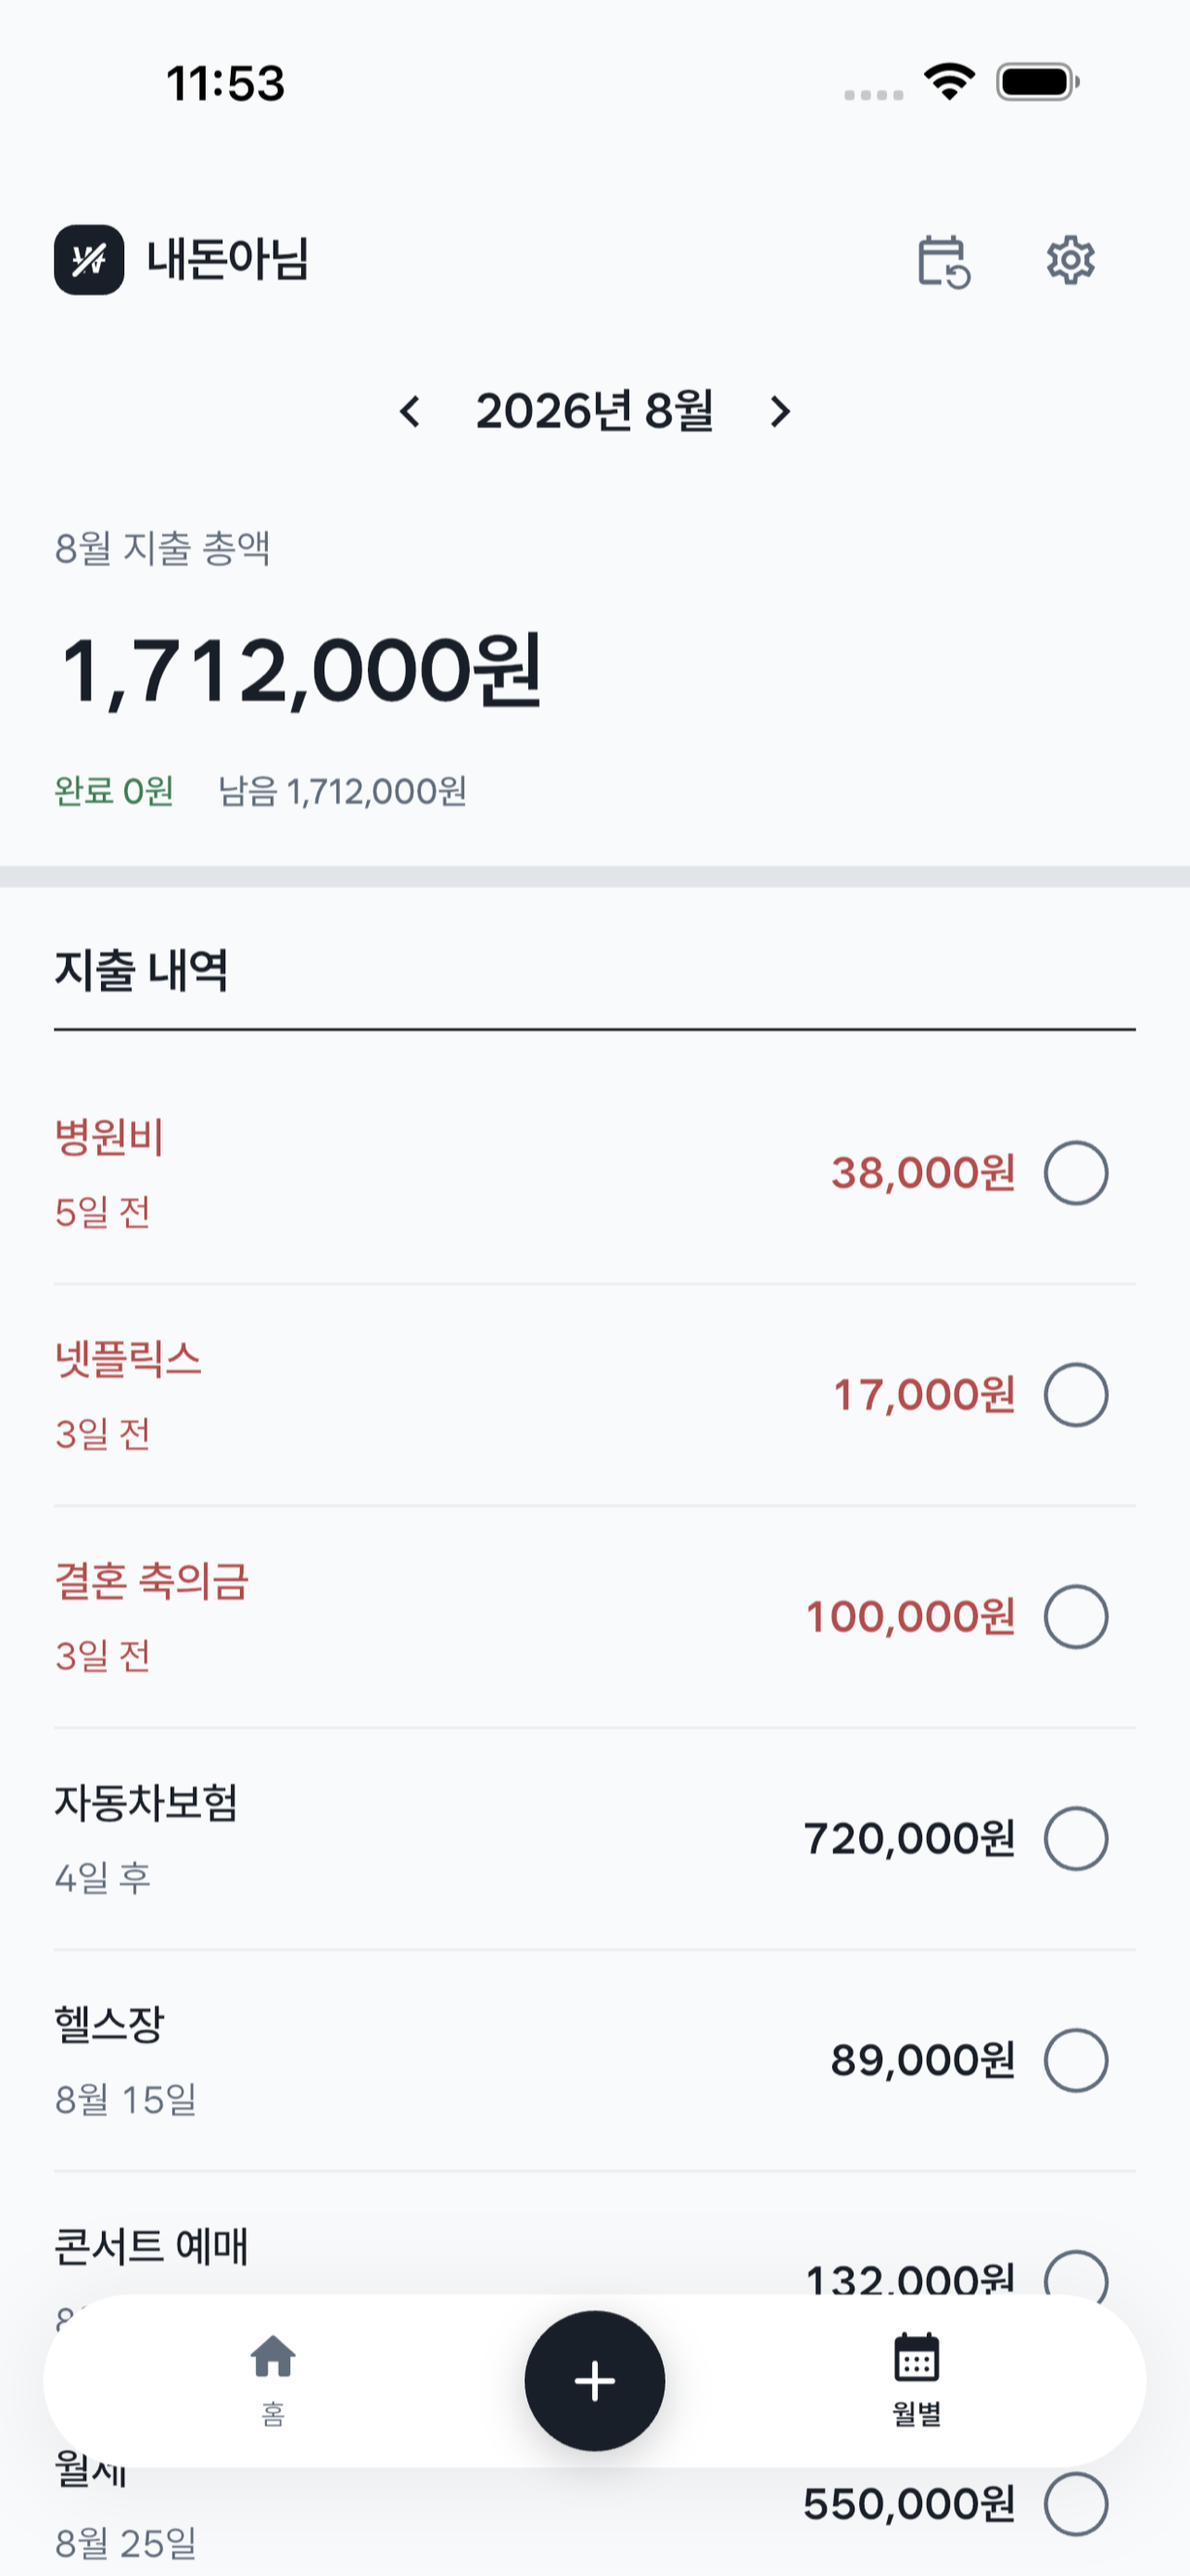
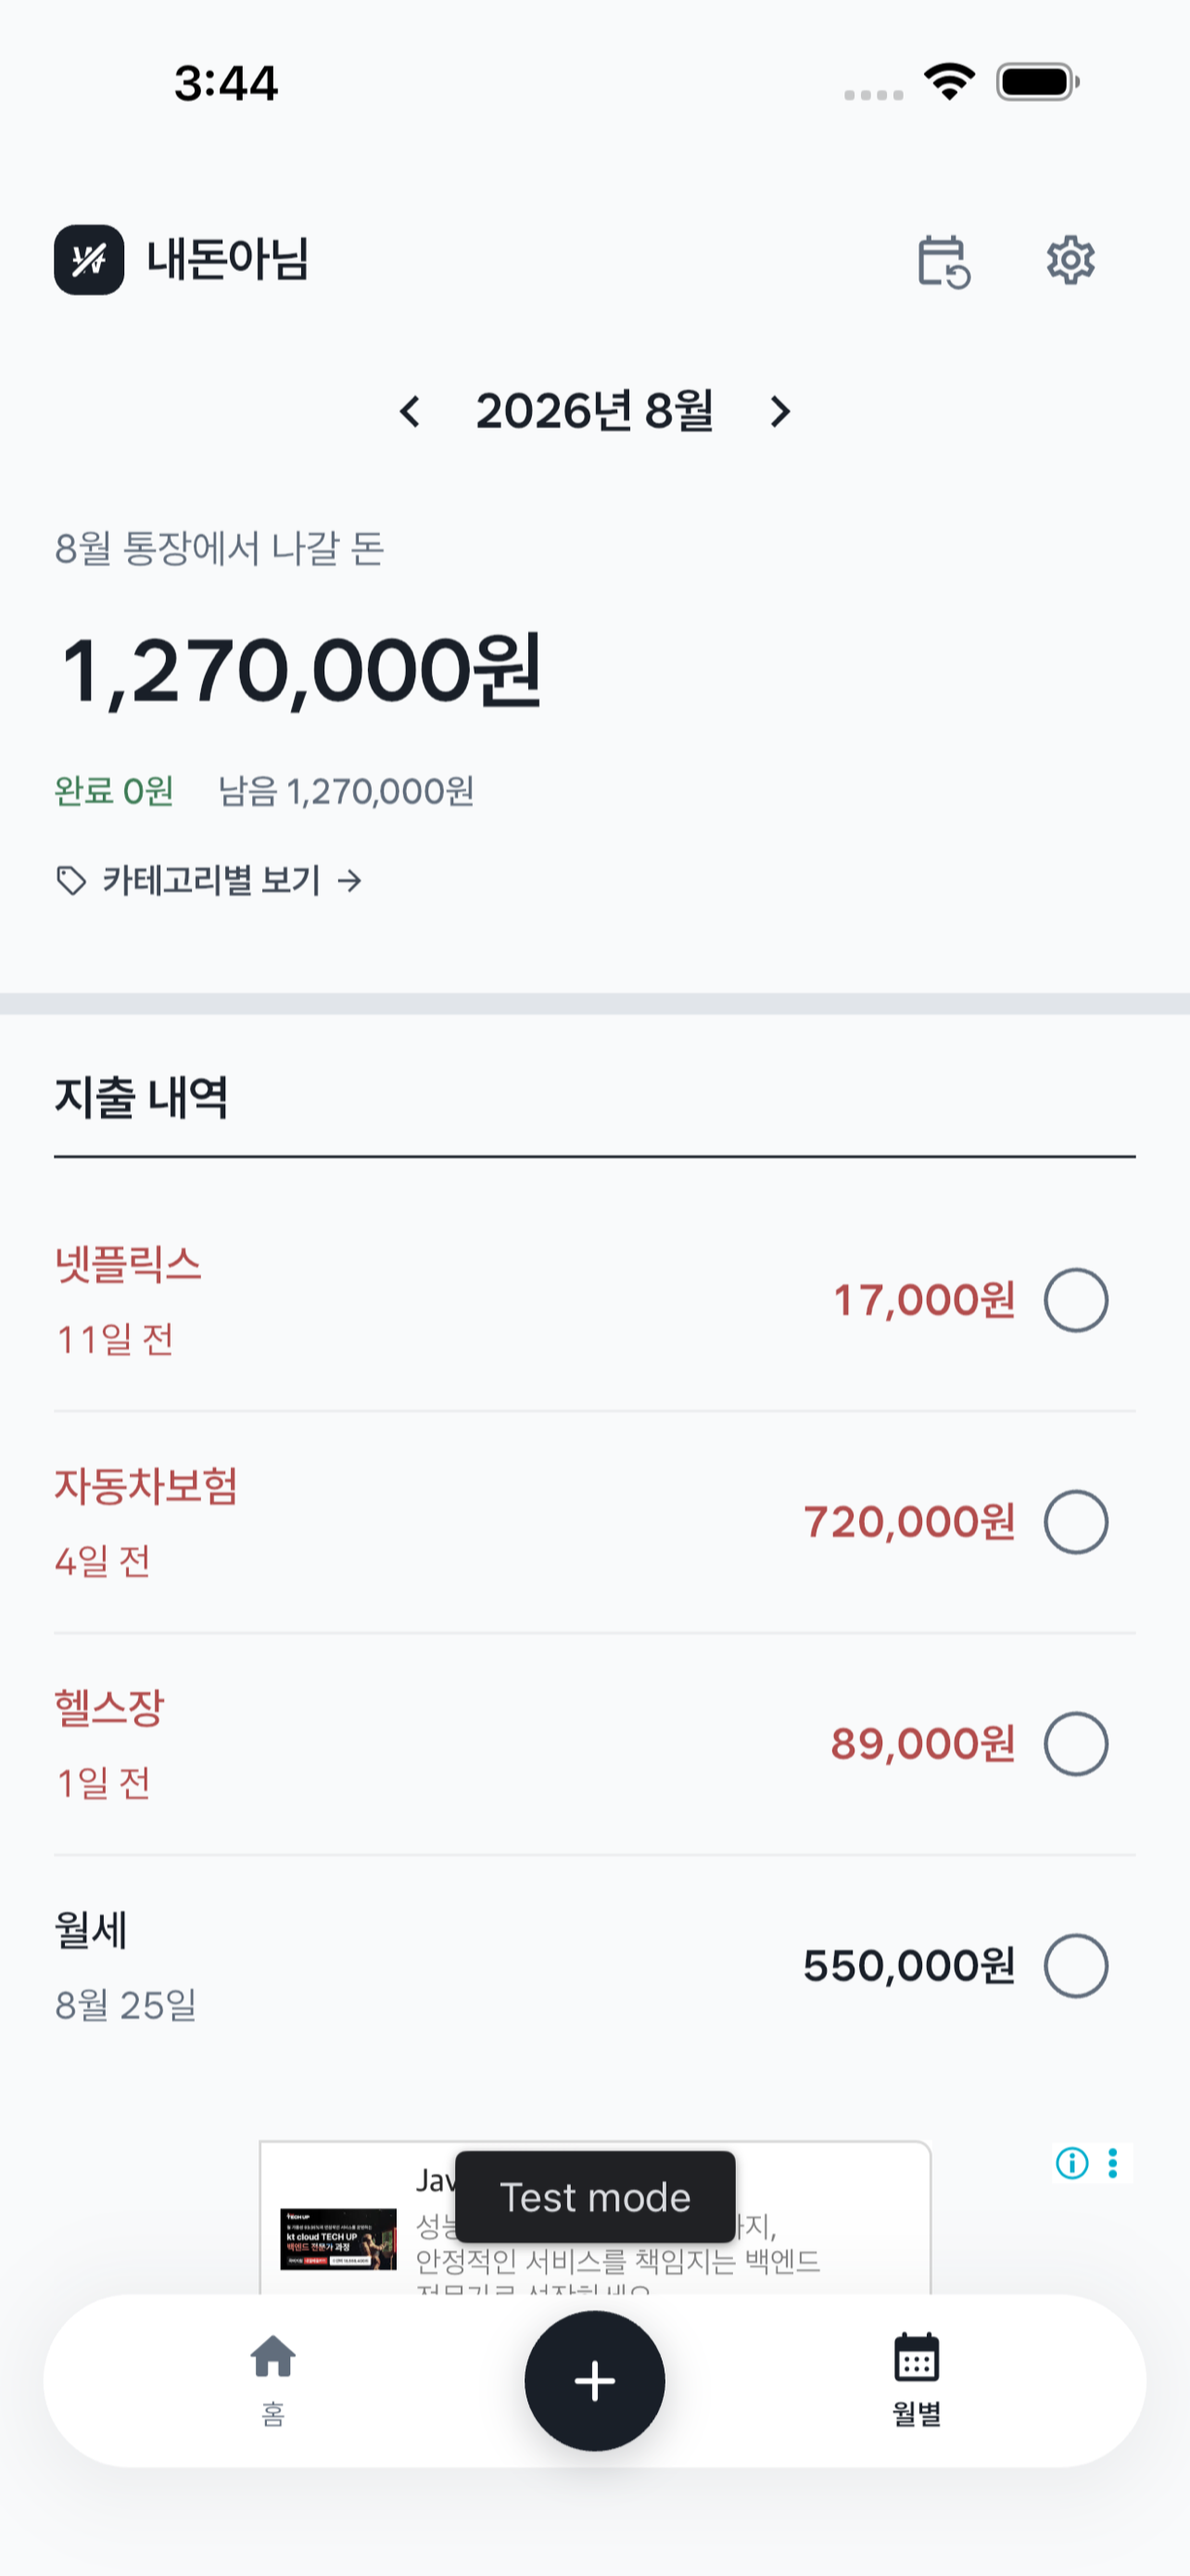
feat(projects): 내돈아님 스크린샷 v1.5 세트로 교체 — 5장 → 6장
- 신규 06_category(카테고리별 집계) 편입, 순서를 ASC 게시 순서에 맞춤
  01_home → 06_category → 03_monthly → 02_register → 05_recurring → 04_settings
- 01·02·03·04는 8/16 재촬영본으로 교체(05는 v1.4 자산 그대로 = md5 동일)
- 캡션 2건 갱신: 홈은 v1.5 라벨(통장에서 나갈 돈), 등록은 두 축 명시
- 규격 1284x2778 전건 동일 — 종횡비 무변

⚠ 01_home·03_monthly에 AdMob "Test mode" 배지가 있다(App Store 게시본과 동일).
재촬영 전까지 스토어와 일치시키는 쪽을 택했다 — 상세는 notmine store/제출-v1.5.0-b41.md §8

diff --git a/src/content/projects/notmine/index.md b/src/content/projects/notmine/index.md
@@ -15,13 +15,15 @@ tags:
 - Riverpod
 images:
 - src: ./01_home.png
-  caption: 홈 — 다음 월급까지 확보해야 할 금액
+  caption: 홈 — 다음 월급까지 통장에서 나갈 돈
+- src: ./06_category.png
+  caption: 카테고리별 — 통장에서 나갈 돈과 카드로 쓴 돈을 나눠서
 - src: ./03_monthly.png
   caption: 월별 지출 내역
+- src: ./02_register.png
+  caption: 지출 등록 — 출금 수단과 지출 종류
 - src: ./05_recurring.png
   caption: 반복 지출 현황 — 뭐가 언제 끝나는지
-- src: ./02_register.png
-  caption: 지출 등록
 - src: ./04_settings.png
   caption: 설정
 ---
